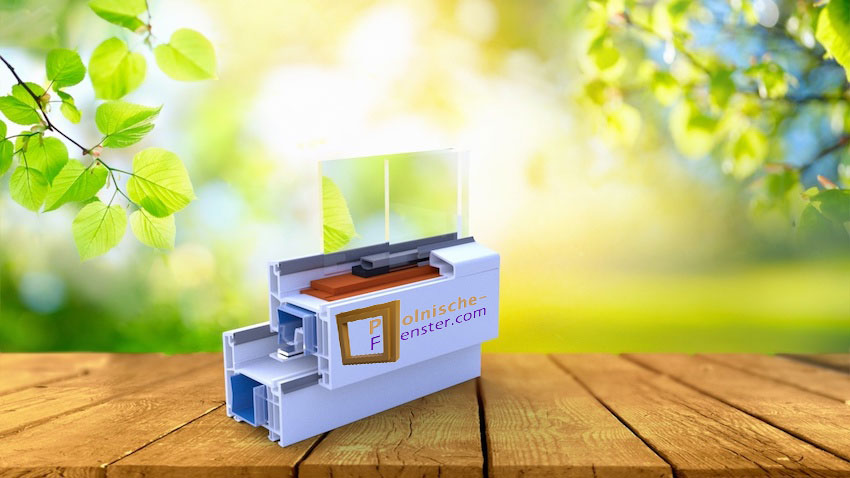
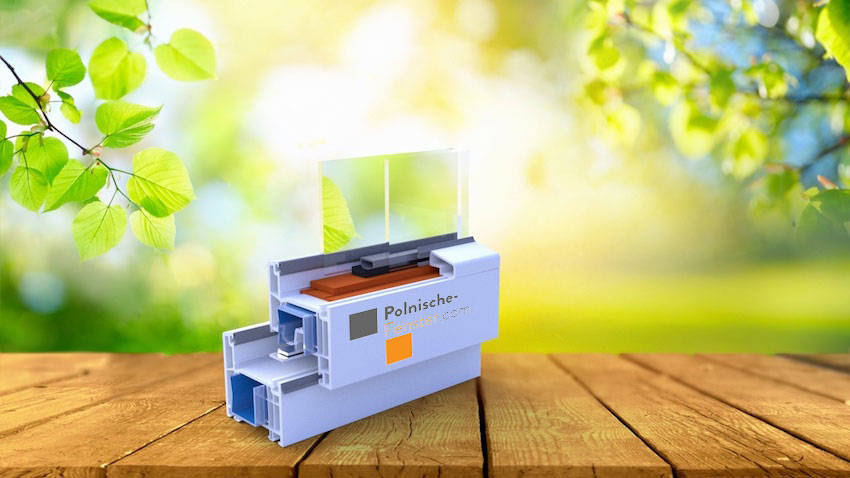
windows

Changed region(s): [[0.3976, 0.6151, 0.5812, 0.7615]]

diff --git a/components/ui/actiondiv.js b/components/ui/actiondiv.js
@@ -9,7 +9,7 @@ function actiondiv() {
         <img src="./pics/laptop.png"></img>
 
         <button
-          className="w3-button w3-border w3-border-purple w3-sand mv3"
+          className="w3-button w3-border w3-border-orange w3-sand mv3"
           type="submit"
           data-toggle="tooltip"
           data-placement="top"
@@ -23,7 +23,7 @@ function actiondiv() {
         <img src="./pics/messband.png"></img>
 
         <button
-          className="w3-button w3-border w3-border-purple w3-sand mv3"
+          className="w3-button w3-border w3-border-orange w3-sand mv3"
           type="submit"
           data-toggle="tooltip"
           data-placement="top"
@@ -36,7 +36,7 @@ function actiondiv() {
         <img src="./pics/toolbox.png"></img>
 
         <button
-          className="w3-button w3-border w3-border-purple w3-sand mv3"
+          className="w3-button w3-border w3-border-orange w3-sand mv3"
           type="submit"
           data-toggle="tooltip"
           data-placement="top"
@@ -48,7 +48,7 @@ function actiondiv() {
         <img src="./pics/door.png"></img>
 
         <button
-          className="w3-button w3-border w3-border-purple w3-sand mv3"
+          className="w3-button w3-border w3-border-orange w3-sand mv3"
           type="submit"
           data-toggle="tooltip"
           data-placement="top"
@@ -62,7 +62,7 @@ function actiondiv() {
         <img src="./pics/rollladen.png"></img>
 
         <button
-          className="w3-button w3-border w3-border-purple w3-sand mv3"
+          className="w3-button w3-border w3-border-orange w3-sand mv3"
           type="submit"
           data-toggle="tooltip"
           data-placement="top"
@@ -75,7 +75,7 @@ function actiondiv() {
         <img src="./pics/raffstore.png"></img>
 
         <button
-          className="w3-button w3-border w3-border-purple w3-sand mv3"
+          className="w3-button w3-border w3-border-orange w3-sand mv3"
           type="submit"
           data-toggle="tooltip"
           data-placement="top"

diff --git a/components/ui/schnellkontakt.js b/components/ui/schnellkontakt.js
@@ -4,14 +4,14 @@ function Schnellkontakt(props) {
     
     <div className="ba w-100  fl  tc mv1  b--moon-gray">
       <form className="" name="Kurzformular" action="../versand_kurznachricht.php" method="post">
-      <div className="w3-container w3-purple">
+      <div className="w3-container w3-orange">
       <p>
         <b>Schnellkontakt:</b>
       </p>
       </div>
       
       <textarea
-        className="w3-input w3-border mh3 mv4 w-90 mh3 w3-sand w3-border-purple"
+        className="w3-input w3-border mh3 mv4 w-90 mh3 w3-sand w3-border-orange"
         name="inputMessage"
         id="inputMessage"
         rows="9"
@@ -20,7 +20,7 @@ function Schnellkontakt(props) {
       <div className="mv3">
         
         <input
-          className="w3-input w3-border mh3 mb4 w-90 w3-sand w3-border-purple"
+          className="w3-input w3-border mh3 mb4 w-90 w3-sand w3-border-orange"
           type="text"
           name="inputEmail"
           id="inputEmail"
@@ -28,12 +28,12 @@ function Schnellkontakt(props) {
           placeholder="Email / Telefonnummer"
         ></input>
         <p className="f7 gray">Ihre Daten werden nicht weitergeleitet.</p>
-        <button className="w3-button w3-border w3-border-purple w3-sand" type="submit" data-toggle="tooltip" data-placement="top" title="Nachricht abschicken">Senden</button>
+        <button className="w3-button w3-border w3-border-orange w3-sand" type="submit" data-toggle="tooltip" data-placement="top" title="Nachricht abschicken">Senden</button>
       </div>
       </form>
       <hr className="w-90"></hr>
       <div><p>Kostenlose* Hotline:</p></div>
-					<div className="w3-text-purple"><h4><b>0 800 44 700 99</b></h4></div>
+					<div className="w3-text-orange"><h4><b>0 800 44 700 99</b></h4></div>
 					<small className="gray f7">*kostenlos vom Festnetz und Mobilfunk.</small>
       <hr className="w-90"></hr>
     </div>

diff --git a/pages/index.js b/pages/index.js
@@ -63,7 +63,7 @@ function StartPage() {
 
               
               <div className="w-100 w-25-l  tc m1 ">
-                <img className="mt1" src="./pics/logo-PF-5.png"></img>
+                <img className="mt1" src="./pics/PF-logo.png"></img>
               </div>
 
               <div className="w-100 w-50-l  fl  tc mv1 ">
@@ -73,7 +73,7 @@ function StartPage() {
                 <img className="mv2 " src="./pics/ikona_gwarancja.png"></img>
               </div>
 
-              <div className="w-100 w-25-l fl tc  mt4 red f3 f4-l w3-text-purple">
+              <div className="w-100 w-25-l fl tc  mt4 f3 f4-l w3-text-orange">
                 <b> 0800 44 700 99</b>
               </div>
 

diff --git a/components/ui/profilecard.js b/components/ui/profilecard.js
@@ -25,7 +25,7 @@ function ProfileCard(props) {
         <h4 className="ma2">{profil.alt}</h4>
         <p className="f6 ma2 gray">{profil.desc}</p>
       </div>
-      <button className="w3-button w3-border w3-border-purple w3-sand mb3" type="submit" data-toggle="tooltip" data-placement="top" title="Nachricht abschicken">mehr</button>
+      <button className="w3-button w3-border w3-border-orange w3-sand mb3" type="submit" data-toggle="tooltip" data-placement="top" title="Nachricht abschicken">mehr</button>
     </div>
   );
 }
